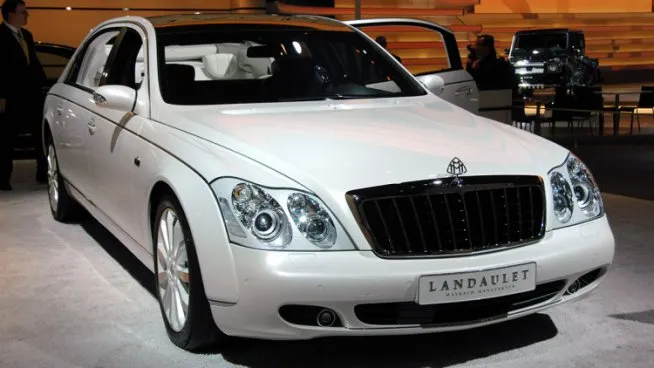
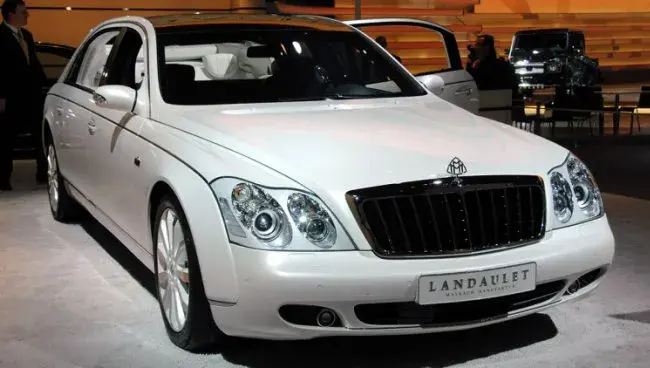
664

diff --git a/pic/ja_mb_img_l.html b/pic/ja_mb_img_l.html
@@ -465,7 +465,7 @@
 						<a href="full/l/w240_62_i.jpg"><img loading="lazy" src="style/l/w240_62_i.webp" alt="メルセデス,W240,マイバッハ,62,内装" width="497" height="373"></a>
 						<h5>Landaulet　2008 - 2013</h5>
 						<a href="full/l/w240_62l_r.jpg"><img loading="lazy" src="style/l/w240_62l_r.webp" alt="メルセデス,W240,マイバッハ,62,ランドーレット,リヤ" width="1210" height="756"></a><br>
-						<a href="full/l/w240_62l_f.jpg"><img loading="lazy" src="style/l/w240_62l_f.webp" alt="メルセデス,W240,マイバッハ,62,ランドーレット,フロント" width="654" height="368"></a>
+						<a href="full/l/w240_62l_f.jpg"><img loading="lazy" src="style/l/w240_62l_f.webp" alt="メルセデス,W240,マイバッハ,62,ランドーレット,フロント" width="650" height="368"></a>
 						<a href="full/l/w240_62l_i.jpg"><img loading="lazy" src="style/l/w240_62l_i.webp" alt="メルセデス,W240,マイバッハ,62,ランドーレット,内装" width="554" height="368"></a>
 					</section>
 				</div>

diff --git a/pic/mb_img_l.html b/pic/mb_img_l.html
@@ -465,7 +465,7 @@
 						<a href="full/l/w240_62_i.jpg"><img loading="lazy" src="style/l/w240_62_i.webp" alt="Mercedes,W240,Maybach,62,Innenansicht" width="497" height="373"></a>
 						<h5>Landaulet&nbsp;2008 - 2013</h5>
 						<a href="full/l/w240_62l_r.jpg"><img loading="lazy" src="style/l/w240_62l_r.webp" alt="Mercedes,W240,Maybach,62,landaulet,Rückansicht" width="1210" height="756"></a><br>
-						<a href="full/l/w240_62l_f.jpg"><img loading="lazy" src="style/l/w240_62l_f.webp" alt="Mercedes,W240,Maybach,62,landaulet,Frontansicht" width="654" height="368"></a>
+						<a href="full/l/w240_62l_f.jpg"><img loading="lazy" src="style/l/w240_62l_f.webp" alt="Mercedes,W240,Maybach,62,landaulet,Frontansicht" width="650" height="368"></a>
 						<a href="full/l/w240_62l_i.jpg"><img loading="lazy" src="style/l/w240_62l_i.webp" alt="Mercedes,W240,Maybach,62,landaulet,Innenansicht" width="554" height="368"></a>
 					</section>
 				</div>

diff --git a/pic/en_mb_img_l.html b/pic/en_mb_img_l.html
@@ -465,7 +465,7 @@
 						<a href="full/l/w240_62_i.jpg"><img loading="lazy" src="style/l/w240_62_i.webp" alt="Mercedes,W240,Maybach,62,Interior" width="497" height="373"></a>
 						<h5>Landaulet&nbsp;2008 - 2013</h5>
 						<a href="full/l/w240_62l_r.jpg"><img loading="lazy" src="style/l/w240_62l_r.webp" alt="Mercedes,W240,Maybach,62,landaulet,Rear view" width="1210" height="756"></a><br>
-						<a href="full/l/w240_62l_f.jpg"><img loading="lazy" src="style/l/w240_62l_f.webp" alt="Mercedes,W240,Maybach,62,landaulet,Front view" width="654" height="368"></a>
+						<a href="full/l/w240_62l_f.jpg"><img loading="lazy" src="style/l/w240_62l_f.webp" alt="Mercedes,W240,Maybach,62,landaulet,Front view" width="650" height="368"></a>
 						<a href="full/l/w240_62l_i.jpg"><img loading="lazy" src="style/l/w240_62l_i.webp" alt="Mercedes,W240,Maybach,62,landaulet,Interior" width="554" height="368"></a>
 					</section>
 				</div>
